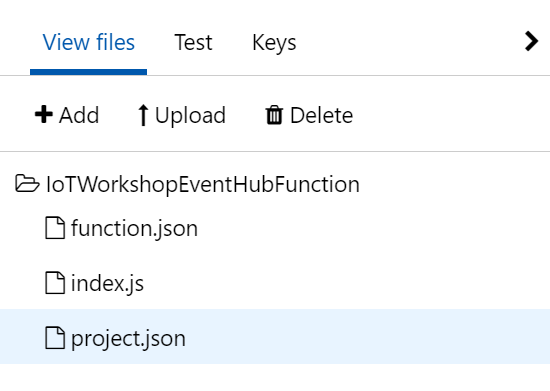
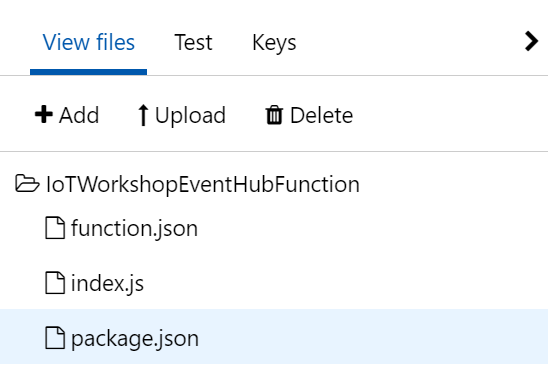
Updated javascript function with correct images

diff --git a/CommandsNodeJs.md b/CommandsNodeJs.md
@@ -31,7 +31,7 @@ In the [previous workshop](AzureNodeJs.md), we passed the telemetry from the dev
 
 In this workshop, we will react on these devices by sending them a command to 'repair themselves'. 
 
-### Updating the Azure Function with sending command logic
+### Updating the NodeJs Azure Function with sending command logic
 
 First, we update the Azure Function. For each device which is passed on, we send a command back.
 
@@ -57,7 +57,7 @@ Sending commands back to devices is a specific feature of the IoT Hub. The IoT H
         var Client = require('azure-iothub').Client;
         var Message = require('azure-iot-common').Message;
 
-        var connectionString = "[IoT Hub IoTHubOwner ConnectionString]";
+        var connectionString = "[IOT HUB connection string]";
         var serviceClient = Client.fromConnectionString(connectionString);
     
         function printResultFor(op) {
@@ -102,7 +102,7 @@ Sending commands back to devices is a specific feature of the IoT Hub. The IoT H
     ![alt tag](img/azure-function-app-eventhubtrigger-logs.png)
 
 8. A 'Logs' panel is shown. This 'Logs' panel works like a trace log.
-9. If you try to run this code, you will notice that compilation fails. This is not that surprising: we are using certain libraries that Azure Functions has no knowledge of. Yet!
+9. Because we are writing JavaScript, there will be no warning the code above has some flaws. We need to add a connection string and extra libraries. Let's start with the extra libraries.
 10. Press the `View Files` button to 'unfold' the pane which shows a directory tree of all files.
 
     ![alt tag](img/commands/azure-function-app-view-files.png)
@@ -138,18 +138,26 @@ Sending commands back to devices is a specific feature of the IoT Hub. The IoT H
     }
     ```
 
-16. Select `Save`. The changed C# code will be recompiled immediately *Note: you can press 'save and run', this will actually run the function, but an empty test will be passed (check out the 'Test' option to the right for more info)*
-17. In the 'Logs' panel, just below 'Code', `verify the outcome` of the compilation
+16. Select `Save`.
+17. We have added the extra dependencies. Unfortunately the libraries involved are not loaded yet. We have to tell NodeJs to load the new libraries. *Note: you can press 'save and run', this will actually try to run the function, but an empty test will be passed (check out the 'Test' option to the right for more info)*
+18. To the left, press the `Function app settings` button
 
-    ```
-    2017-01-08T14:49:46.794 Packages restored.
-    2017-01-08T14:49:47.113 Script for function 'IoTWorkshopEventHubFunction' changed. Reloading.
-    2017-01-08T14:49:47.504 Compilation succeeded.
-    ```
+    ![alt tag](img/commands/azure-function-app-settings.png)
 
-18. There is just one thing left to do: we have to fill in the Azure IoT Hub security policy connection string. To send commands back, we have to proof we are authorized to do this
-19. In the Azure Function, replace '[IOT HUB connection string]' your *remembered* IoT Hub `Connection String-primary key`
-20. Recompile again succesfully
+19. We want to run a NodeJs command. Select the `Go to Kudu` option
+
+    ![alt tag](img/commands/azure-function-app-kudu.png)
+
+20. A new tab page is shown. In it the file structure of the NodeJs function is shown. And we get an convenient Dosprompt
+21. navigate to the map `D:\home\site\wwwroot\IoTWorkshopEventHubFunction` using the files shown in the upper half of the screen
+22. Run `npm install` in the console. *Note: This could take some time*
+
+    ![alt tag](img/commands/azure-function-app-kudu-npm-install.png)
+
+23. Once the cursor is available again, close the Kudu screen and return to the NodeJs function
+24. There is just one thing left to do: we have to fill in the Azure IoT Hub security policy connection string. To send commands back, we have to proof we are authorized to do this
+25. In the Azure Function, replace '[IOT HUB connection string]' with your *remembered* IoT Hub `Connection String-primary key`
+26. Select `Save` again 
 
 Now, the Azure Function is ready to receive data about devices which simulate 'faulty machines'. And it can send commands back to 'repair' the 'machines'.
 

diff --git a/CommandsTTN.md b/CommandsTTN.md
@@ -31,7 +31,7 @@ In the [previous workshop](AzureTTN.md), we passed the telemetry from the device
 
 In this workshop, we will react on these devices by sending them a command to 'repair themselves'. 
 
-### Updating the Azure Function with sending command logic
+### Updating the C# Azure Function with sending command logic
 
 First, we update the Azure Function. For each device which is passed on, we send a command back.
 
@@ -139,8 +139,8 @@ Sending commands back to devices is a specific feature of the IoT Hub. The IoT H
     ```
 
 18. There is just one thing left to do: we have to fill in the Azure IoT Hub security policy connection string. To send commands back, we have to proof we are authorized to do this
-19. In the Azure Function, replace '[IOT HUB connection string]' your *remembered* IoT Hub `Connection String-primary key`
-20. Recompile again succesfully
+19. In the Azure Function, replace '[IOT HUB connection string]' with your *remembered* IoT Hub `Connection String-primary key`
+20. Selsect `Save` and recompile again succesfully
 
 Now, the Azure Function is ready to receive data about devices which simulate 'faulty machines'. And it can send commands back to 'repair' the 'machines'.
 

diff --git a/CommandsUwp.md b/CommandsUwp.md
@@ -31,7 +31,7 @@ In the [previous workshop](AzureUWP.md), we passed the telemetry from the device
 
 In this workshop, we will react on these devices by sending them a command to 'repair themselves'. 
 
-### Updating the Azure Function with sending command logic
+### Updating the C# Azure Function with sending command logic
 
 First, we update the Azure Function. For each device which is passed on, we send a command back.
 
@@ -139,8 +139,8 @@ Sending commands back to devices is a specific feature of the IoT Hub. The IoT H
     ```
 
 18. There is just one thing left to do: we have to fill in the Azure IoT Hub security policy connection string. To send commands back, we have to proof we are authorized to do this
-19. In the Azure Function, replace '[IOT HUB connection string]' your *remembered* IoT Hub `Connection String-primary key`
-20. Recompile again succesfully
+19. In the Azure Function, replace '[IOT HUB connection string]' with your *remembered* IoT Hub `Connection String-primary key`
+20. Select `Save` and recompile again succesfully
 
 Now, the Azure Function is ready to receive data about devices which simulate 'faulty machines'. And it can send commands back to 'repair' the 'machines'.
 
